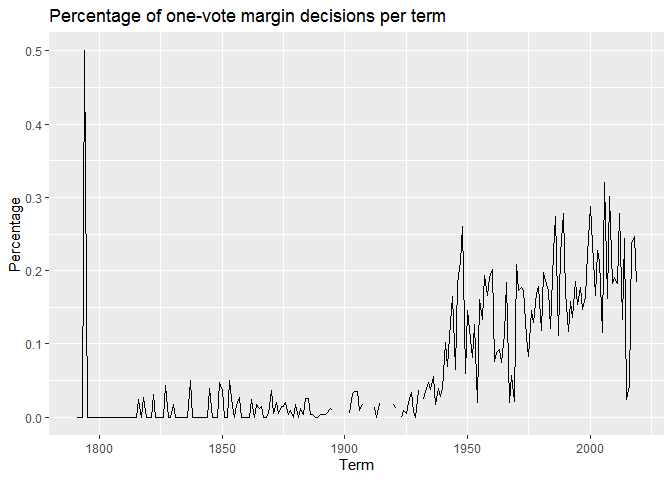
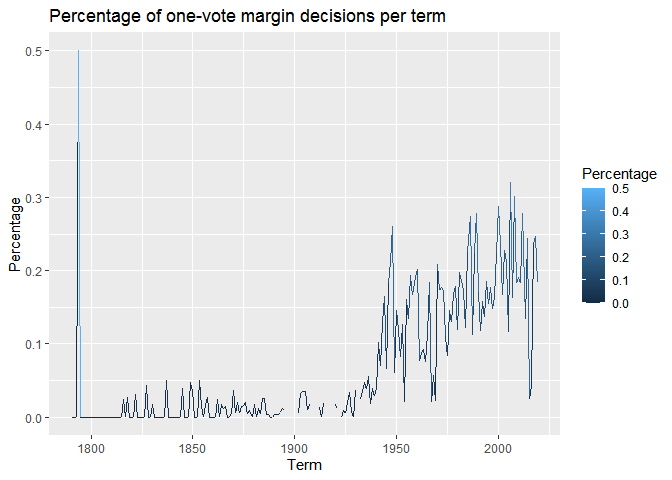
First three exercises done for now, graphs prettier.

diff --git a/scotus.md b/scotus.md
@@ -21,6 +21,17 @@ library(tidyverse)
     ## x dplyr::lag()    masks stats::lag()
 
 ``` r
+library(lubridate)
+```
+
+    ## 
+    ## Attaching package: 'lubridate'
+
+    ## The following objects are masked from 'package:base':
+    ## 
+    ##     date, intersect, setdiff, union
+
+``` r
 # load data
 case_data <- read_csv("data/scdb-case.csv")
 ```
@@ -89,8 +100,8 @@ case_data %>%
   group_by(term) %>%
   summarize(one_vote_margin = sum(difference == "1") / n()) %>%
   ggplot() +
-  geom_line(aes(x = term, y = one_vote_margin)) +
-  labs(title = "Percentage of one-vote margin decisions per term", x = "Term", y = "Percentage")
+  geom_line(aes(x = term, y = one_vote_margin, color = one_vote_margin)) +
+  labs(title = "Percentage of one-vote margin decisions per term", x = "Term", y = "Percentage", color = "Percentage")
 ```
 
     ## `summarise()` ungrouping output (override with `.groups` argument)
@@ -103,7 +114,46 @@ Organize the resulting graph by justice in descending order of
 seniority. (Note that the chief justice is always considered the most
 senior member of the court, regardless of appointment date.)
 
+``` r
+combined_data <- inner_join(x = vote_data, y = case_data) %>% #connecting issueArea to vote data
+  filter(justice == 108 | (justice >= 110 & justice <= 116) & (issueArea == 1 | issueArea == 2 | issueArea == 8 | issueArea == 12)) %>%
+  group_by(justiceName) %>%
+  mutate(justiceName = factor(justiceName, levels = c("JGRoberts", "CThomas", "SGBreyer",                                                    "SAAlito", "SSotomayor", "EKagan","NMGorsuch","BMKavanaugh"))) %>%
+  summarize(conservative_freq = sum(direction == "1", na.rm = TRUE) / n())
+```
+
+    ## Joining, by = c("caseId", "docketId", "caseIssuesId", "term")
+
+    ## `summarise()` ungrouping output (override with `.groups` argument)
+
+``` r
+ggplot(combined_data) +
+  geom_col(aes(x = justiceName, y = conservative_freq, fill = conservative_freq)) +
+  labs(title = "Ratio of Conservative Votes per Justice", x = "Justice Name", y = "Ratio of Votes", fill = "Conservative Ratio") +
+  coord_flip()
+```
+
+![](scotus_files/figure-gfm/unnamed-chunk-4-1.png)<!-- -->
+
 ## In each term, how many of the term’s published decisions (decided after oral arguments) were announced in a given month?
+
+``` r
+dated_case_data <- case_data %>%
+  mutate(dateDecision = mdy(dateDecision)) %>%
+  mutate(monthDecision = month(dateDecision)) %>%
+  mutate(monthDecision = factor(monthDecision,
+    levels = c(10:12, 1:9),
+    labels = c(month.abb[10:12], month.abb[1:9]))) %>%
+  group_by(term, monthDecision) %>%
+  count()
+
+  ggplot(data=dated_case_data) +
+  geom_line(aes(x = term, y = n, color = n)) +
+  labs(title = "Decisions per month per year", x = "Year", y = "Decisions per Month", color = "Count") +
+  facet_wrap(~monthDecision)
+```
+
+![](scotus_files/figure-gfm/unnamed-chunk-5-1.png)<!-- -->
 
 ## Which justices are most likely to agree with with the Court’s declaration that an act of Congress, a state or territorial law, or a municipal ordinance is unconstitutional? Identify all cases where the Court declared something unconstitutional and determine the ten justices who most and least frequently agreed with this outcome as a percentage of all votes cast by the justice in these cases. Exclude any justice with fewer than 30 votes in cases where the Court’s outcome declares something unconstitutional.
 
@@ -168,7 +218,7 @@ devtools::session_info()
     ##  knitr         1.30    2020-09-22 [1] CRAN (R 4.0.2)
     ##  labeling      0.3     2014-08-23 [1] CRAN (R 4.0.0)
     ##  lifecycle     0.2.0   2020-03-06 [1] CRAN (R 4.0.2)
-    ##  lubridate     1.7.9   2020-06-08 [1] CRAN (R 4.0.2)
+    ##  lubridate   * 1.7.9   2020-06-08 [1] CRAN (R 4.0.2)
     ##  magrittr      1.5     2014-11-22 [1] CRAN (R 4.0.2)
     ##  memoise       1.1.0   2017-04-21 [1] CRAN (R 4.0.2)
     ##  modelr        0.1.8   2020-05-19 [1] CRAN (R 4.0.2)
